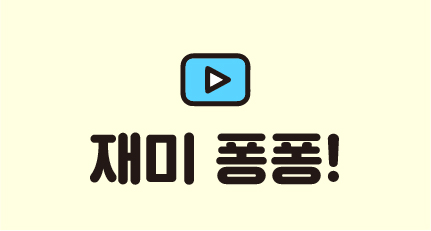
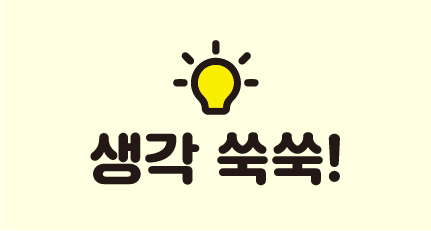
버튼 디자인 수정, 전체 페이지 타이틀 수정

Changed region(s): [[0.4826, 0.5758, 0.8144, 0.8182], [0.3921, 0.1515, 0.6032, 0.5152], [0.2111, 0.5758, 0.4826, 0.8182]]

diff --git a/contents/vr03-market/index.html b/contents/vr03-market/index.html
@@ -2,7 +2,7 @@
 <html lang="ko">
     <head>
         <meta charset="UTF-8">
-        <title>마을배움터 고택편 하위 콘텐츠 선택페이지</title>
+        <title>시장에 가면 목차</title>
         <link rel="stylesheet" type="text/css" href="../../style/normalize.css">
         <link rel="stylesheet" type="text/css" href="../style/style-index.css">
         <link rel="stylesheet" type="text/css" href="style/style.css">
@@ -18,7 +18,7 @@
         </div>
     
     <div id="header">
-    <img id="title-illust" src="assets/img/title-illust.png" alt="마을배움터 고택편"></div>
+    <img id="title-illust" src="assets/img/title-illust.png" alt="마을배움터 시장편"></div>
     <div id="middle">
        
         <div class="gap"></div>

diff --git a/contents/vr02-hanok/intro.html b/contents/vr02-hanok/intro.html
@@ -2,7 +2,7 @@
 <html lang="ko">
     <head>
         <meta charset="UTF-8">
-        <title>옛날 옛적에는 어떻게 살았을까? 인트로</title>
+        <title>옛날옛적에는 어디서 어떻게 살았을까? 놀이 똑똑!</title>
         <link rel="stylesheet" type="text/css" href="../../style/normalize.css">
         <link rel="stylesheet" type="text/css" href="../style/style-vr.css">
         <script type="text/javascript" src="../../scripts/no-ie.js"></script>

diff --git a/contents/vr02-hanok/index.html b/contents/vr02-hanok/index.html
@@ -2,7 +2,7 @@
 <html lang="ko">
     <head>
         <meta charset="UTF-8">
-        <title>마을배움터 고택편 하위 콘텐츠 선택페이지</title>
+        <title>옛날옛적에는 어디서 어떻게 살았을까? 목차</title>
         <link rel="stylesheet" type="text/css" href="../../style/normalize.css">
         <link rel="stylesheet" type="text/css" href="../style/style-index.css">
         <link rel="stylesheet" type="text/css" href="sytle/style.css">

diff --git a/contents/vr02-hanok/main.html b/contents/vr02-hanok/main.html
@@ -2,7 +2,7 @@
 <html lang="ko">
     <head>
         <meta charset="UTF-8">
-        <title>옛날 옛적에는 어떻게 살았을까?</title>
+        <title>옛날옛적에는 어디서 어떻게 살았을까? 재미 퐁퐁!</title>
         <link rel="stylesheet" type="text/css" href="../../style/normalize.css">
         <link rel="stylesheet" type="text/css" href="../style/style-vr.css">
         <script type="text/javascript" src="../../scripts/no-ie.js"></script>

diff --git a/contents/vr02-hanok/questions.html b/contents/vr02-hanok/questions.html
@@ -2,7 +2,7 @@
 <html lang="ko">
     <head>
         <meta charset="UTF-8">
-        <title>옛날 옛적에는 어떻게 살았을까? 질문</title>
+        <title>옛날 옛적에는 어떻게 살았을까? 생각 쑥쑥!</title>
         <link rel="stylesheet" type="text/css" href="../../style/normalize.css">
         <link rel="stylesheet" type="text/css" href="../style/style-vr.css">
         <script type="text/javascript" src="../../scripts/no-ie.js"></script>

diff --git a/contents/v02-nineroad/index.html b/contents/v02-nineroad/index.html
@@ -2,7 +2,7 @@
 <html lang="ko">
     <head>
         <meta charset="UTF-8">
-        <title>아홉거리 하위 콘텐츠 선택페이지</title>
+        <title>아홉거리 목차</title>
         <link rel="stylesheet" type="text/css" href="../../style/normalize.css">
         <link rel="stylesheet" type="text/css" href="../style/style-index.css">
         <link rel="stylesheet" type="text/css" href="style/style.css">

diff --git a/contents/vr03-market/intro.html b/contents/vr03-market/intro.html
@@ -2,7 +2,7 @@
 <html lang="ko">
     <head>
         <meta charset="UTF-8">
-        <title>시장에 가면 인트로</title>
+        <title>시장에 가면 놀이 똑똑!</title>
         <link rel="stylesheet" type="text/css" href="../../style/normalize.css">
         <link rel="stylesheet" type="text/css" href="../style/style-vr.css">
         <script type="text/javascript" src="../../scripts/no-ie.js"></script>

diff --git a/contents/vr03-market/questions.html b/contents/vr03-market/questions.html
@@ -2,7 +2,7 @@
 <html lang="ko">
     <head>
         <meta charset="UTF-8">
-        <title>시장에 가면? 질문</title>
+        <title>시장에 가면 생각 쑥쑥!</title>
         <link rel="stylesheet" type="text/css" href="../../style/normalize.css">
         <link rel="stylesheet" type="text/css" href="../style/style-vr.css">
         <script type="text/javascript" src="../../scripts/no-ie.js"></script>

diff --git a/contents/v01-temple/index.html b/contents/v01-temple/index.html
@@ -2,7 +2,7 @@
 <html lang="ko">
     <head>
         <meta charset="UTF-8">
-        <title>밤절 하위 콘텐츠 선택페이지</title>
+        <title>밤절 목차</title>
         <link rel="stylesheet" type="text/css" href="../../style/normalize.css">
         <link rel="stylesheet" type="text/css" href="../style/style-index.css">
         <link rel="stylesheet" type="text/css" href="style/style.css">

diff --git a/contents/vr03-market/main.html b/contents/vr03-market/main.html
@@ -2,7 +2,7 @@
 <html lang="ko">
     <head>
         <meta charset="UTF-8">
-        <title>시장에 가면</title>
+        <title>시장에 가면 재미 퐁퐁!</title>
         <link rel="stylesheet" type="text/css" href="../../style/normalize.css">
         <link rel="stylesheet" type="text/css" href="../style/style-vr.css">
         <script type="text/javascript" src="../../scripts/no-ie.js"></script>

diff --git a/contents/v01-temple/pages/p1/index.html b/contents/v01-temple/pages/p1/index.html
@@ -2,7 +2,7 @@
 <html lang="ko">
     <head>
         <meta charset="UTF-8">
-        <title>밤절 내부 콘텐츠 영상 1</title>
+        <title>밤절 1</title>
         <link rel="stylesheet" type="text/css" href="../../../style/style-v-contents.css">
         <link rel="stylesheet" type="text/css" href="style/style.css">
         <script type="text/javascript" src="scripts/main.js"></script>

diff --git a/contents/v01-temple/pages/p2/index.html b/contents/v01-temple/pages/p2/index.html
@@ -2,7 +2,7 @@
 <html lang="ko">
     <head>
         <meta charset="UTF-8">
-        <title>밤절 내부 콘텐츠 영상 2</title>
+        <title>밤절 2</title>
         <link rel="stylesheet" type="text/css" href="../../../style/style-v-contents.css">
         <link rel="stylesheet" type="text/css" href="style/style.css">
         <script type="text/javascript" src="scripts/main.js"></script>
